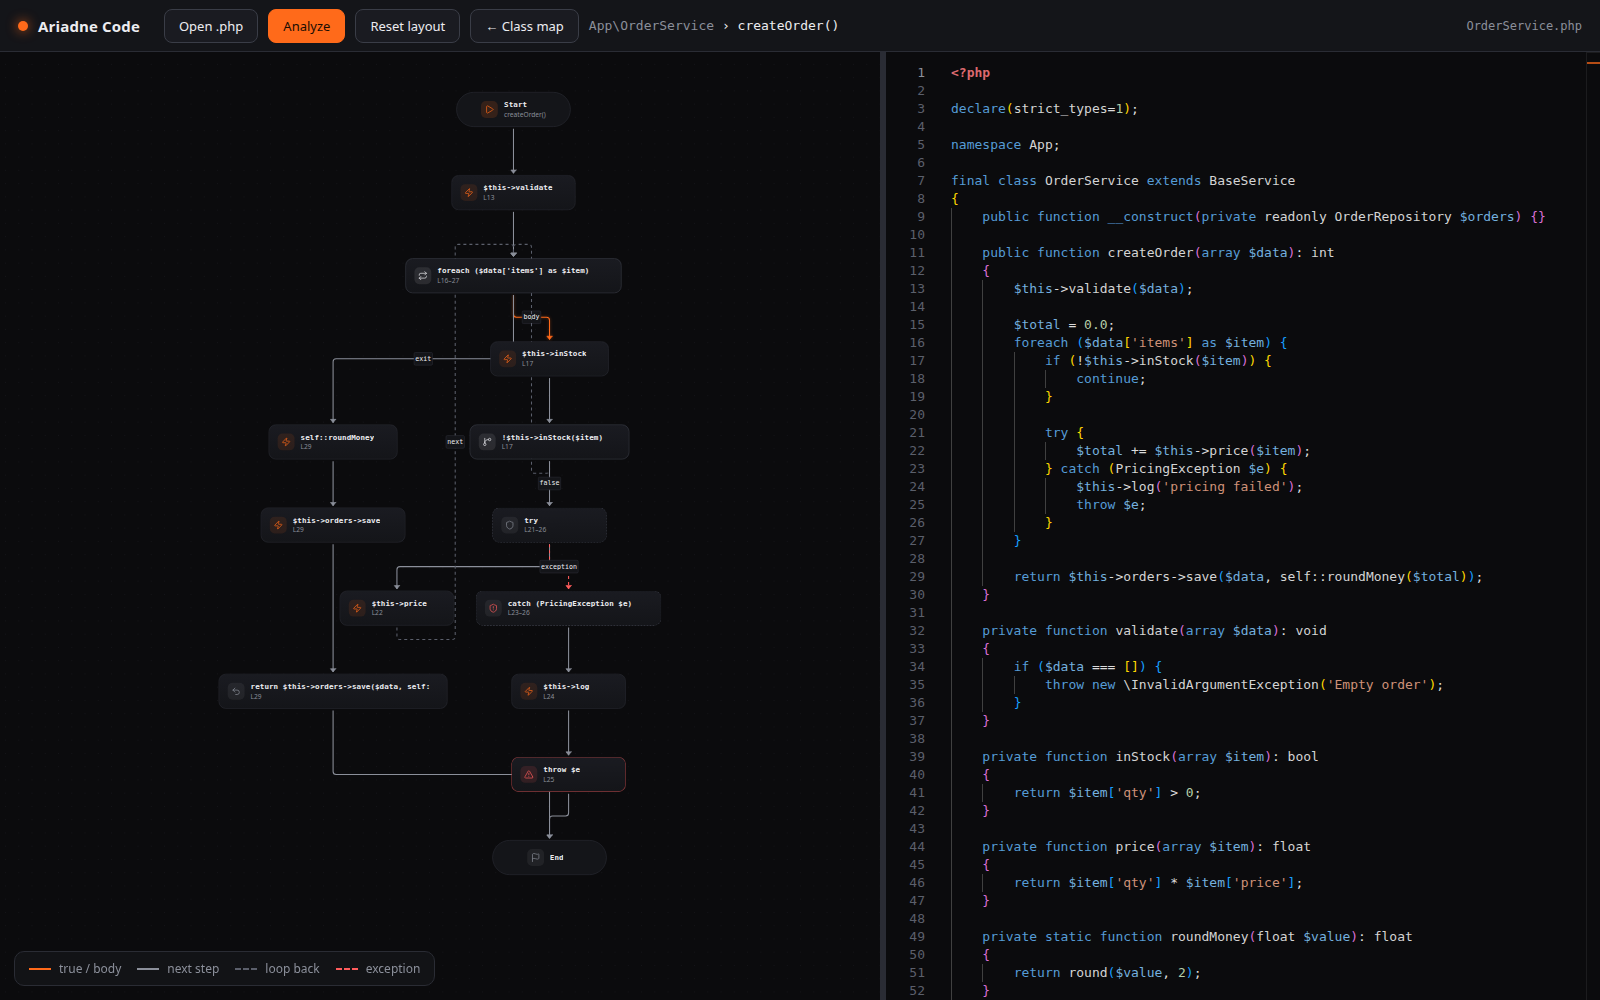
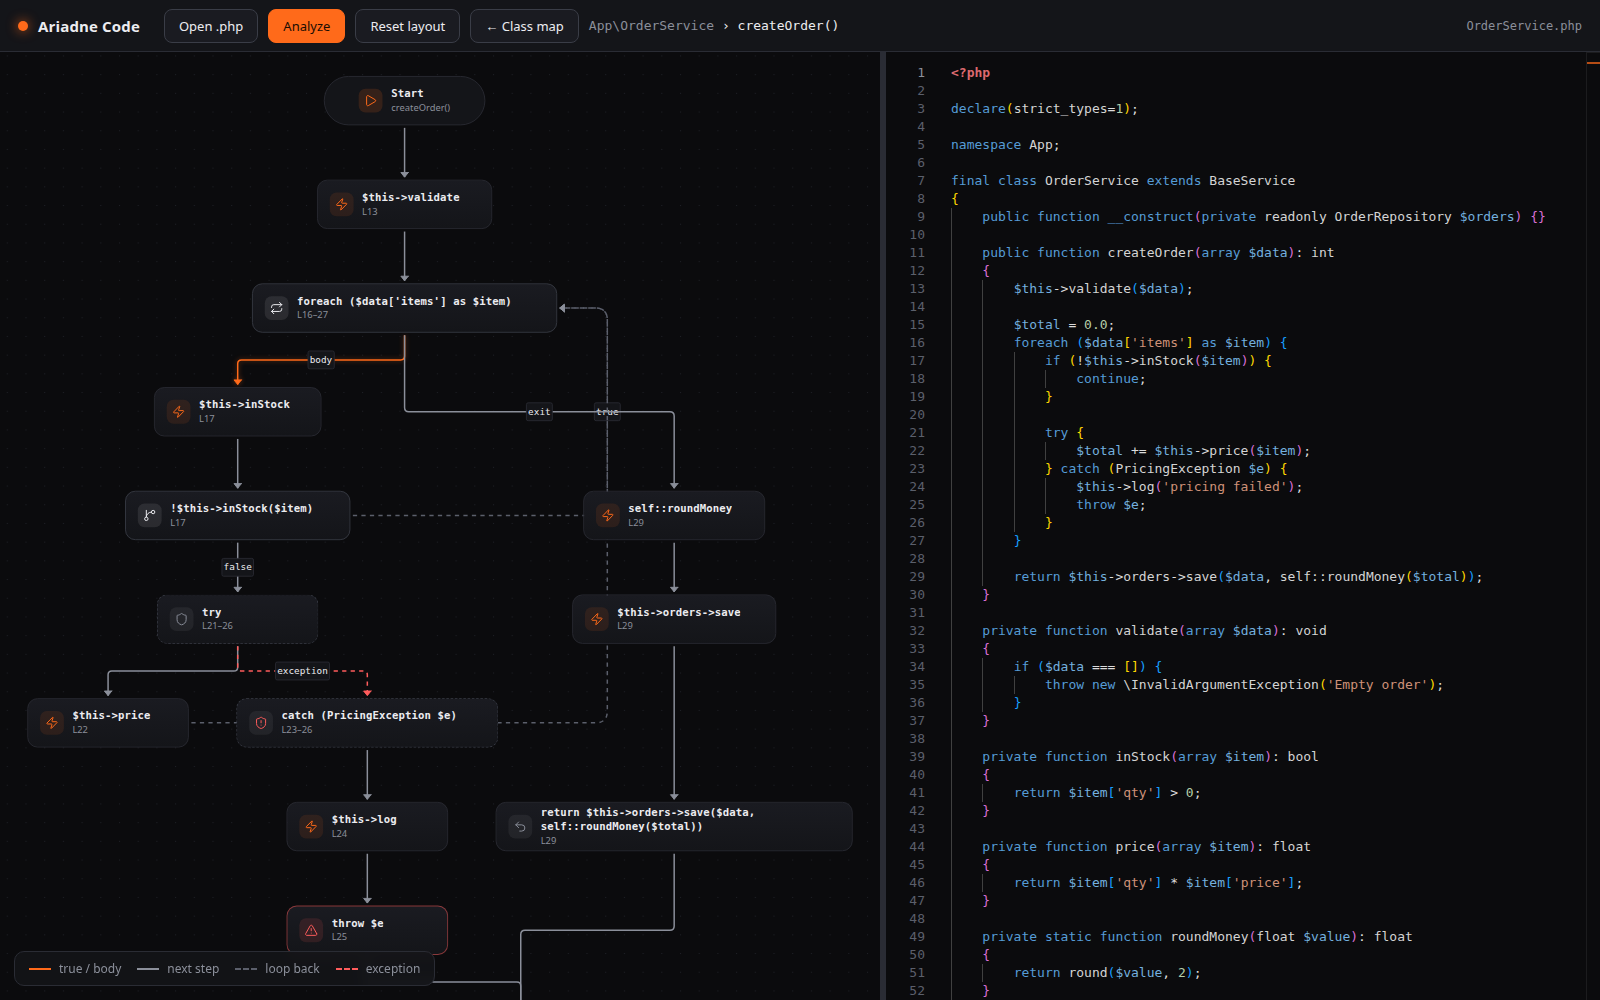
[update] open method flow at a readable zoom with ordered layout and wider spacing

diff --git a/web/src/components/GraphView.vue b/web/src/components/GraphView.vue
@@ -3,6 +3,7 @@ import { Background } from '@vue-flow/background'
 import { VueFlow, useVueFlow, type Edge, type Node } from '@vue-flow/core'
 import { shallowRef, watch } from 'vue'
 
+import { readableViewport } from '../graph/viewport'
 import { applyPositions, clearPositions, layoutKey, loadPositions, savePositions } from '../graph/positions'
 import { theme } from '../theme'
 import ClassGroup from './ClassGroup.vue'
@@ -22,7 +23,7 @@ const props = defineProps<{
 }>()
 const emit = defineEmits<{ select: [id: string]; open: [id: string] }>()
 
-const { fitView, getNodes, updateNode, onNodeClick, onNodeDoubleClick, onNodeDragStop, onNodesChange, onNodesInitialized } = useVueFlow()
+const { fitView, setViewport, dimensions, getNodes, updateNode, onNodeClick, onNodeDoubleClick, onNodeDragStop, onNodesChange, onNodesInitialized } = useVueFlow()
 
 // Vue Flow owns the node positions from here on. Props only deliver a freshly analyzed graph;
 // selection and dragging must never rebuild nodes from them, or dragged blocks jump back.
@@ -74,10 +75,34 @@ onNodesChange((changes) => {
   }
 })
 
+/** A method flow is read like text, so it opens at a readable size from the top. A class map is shown whole. */
+function fit(): void {
+  if (props.mode === 'map') {
+    void fitView({ padding: 0.1, maxZoom: 1.25 })
+
+    return
+  }
+
+  const nodes = getNodes.value
+
+  if (nodes.length === 0) {
+    return
+  }
+
+  const bounds = {
+    minX: Math.min(...nodes.map((node) => node.position.x)),
+    minY: Math.min(...nodes.map((node) => node.position.y)),
+    maxX: Math.max(...nodes.map((node) => node.position.x + node.dimensions.width)),
+    maxY: Math.max(...nodes.map((node) => node.position.y + node.dimensions.height)),
+  }
+
+  void setViewport(readableViewport(bounds, dimensions.value, { padding: 24, minZoom: 0.85, maxZoom: 1.25 }))
+}
+
 onNodesInitialized(() => {
   if (pendingFit) {
     pendingFit = false
-    void fitView({ padding: 0.1, maxZoom: 1.25 })
+    fit()
   }
 })
 

diff --git a/web/src/graph/viewport.test.ts b/web/src/graph/viewport.test.ts
@@ -1,0 +1,44 @@
+import { describe, expect, it } from 'vitest'
+import { readableViewport } from './viewport'
+
+const options = { padding: 20, minZoom: 0.8, maxZoom: 1.25 }
+const pane = { width: 800, height: 600 }
+
+describe('readableViewport', () => {
+  it('fits a small graph and centres it', () => {
+    const view = readableViewport({ minX: 0, minY: 0, maxX: 400, maxY: 200 }, pane, options)
+
+    expect(view.zoom).toBeCloseTo(1.25)
+    expect(view.x).toBeCloseTo((800 - 400 * 1.25) / 2)
+    expect(view.y).toBeCloseTo((600 - 200 * 1.25) / 2)
+  })
+
+  it('zooms out to fit a graph that is a little too big', () => {
+    // 760x560 is free after padding, so the 600px-high graph is limited by height: 560 / 600.
+    const view = readableViewport({ minX: 0, minY: 0, maxX: 700, maxY: 600 }, pane, options)
+
+    expect(view.zoom).toBeCloseTo(560 / 600, 5)
+  })
+
+  it('never zooms below the readable minimum and pins a tall graph to the top', () => {
+    const view = readableViewport({ minX: 0, minY: 0, maxX: 300, maxY: 2000 }, pane, options)
+
+    expect(view.zoom).toBe(0.8)
+    expect(view.y).toBe(20)
+    expect(view.x).toBeCloseTo((800 - 300 * 0.8) / 2)
+  })
+
+  it('accounts for a graph that does not start at the origin', () => {
+    const view = readableViewport({ minX: 100, minY: 50, maxX: 500, maxY: 250 }, pane, options)
+
+    // The graph's left edge lands where it would for a graph at the origin, shifted by its own offset.
+    expect(view.x + 100 * view.zoom).toBeCloseTo((800 - 400 * view.zoom) / 2)
+    expect(view.y + 50 * view.zoom).toBeCloseTo((600 - 200 * view.zoom) / 2)
+  })
+
+  it('survives a pane that has not been measured yet', () => {
+    const view = readableViewport({ minX: 0, minY: 0, maxX: 100, maxY: 100 }, { width: 0, height: 0 }, options)
+
+    expect(Number.isFinite(view.x) && Number.isFinite(view.y) && Number.isFinite(view.zoom)).toBe(true)
+  })
+})

diff --git a/web/src/graph/layout.ts b/web/src/graph/layout.ts
@@ -5,7 +5,7 @@ const elk = new ELK()
 
 const NODE_HEIGHT = 58
 const MIN_NODE_WIDTH = 190
-const MAX_NODE_WIDTH = 380
+const MAX_NODE_WIDTH = 420
 const CHAR_WIDTH = 8.5
 // Icon, gaps and padding around the title.
 const CHROME = 78
@@ -26,6 +26,23 @@ export type LayoutNode = Node & { data: { title: string; subtitle: string } }
 export interface LayoutOptions {
   /** Direction of the main flow. The class map reads left to right, a method flow top to bottom. */
   direction?: 'RIGHT' | 'DOWN'
+}
+
+/**
+ * Extra ELK options for a method flow, which is a story read from the top rather than a map.
+ * - Model order keeps the source order of statements and branches (`true` before `false`), so the main
+ *   path stays in one column instead of being shuffled to reduce crossings.
+ * - Wider gaps leave room for the branch labels that sit on the edges.
+ */
+const FLOW_OPTIONS: Record<string, string> = {
+  'elk.layered.considerModelOrder.strategy': 'NODES_AND_EDGES',
+  'elk.layered.crossingMinimization.forceNodeModelOrder': 'true',
+  'elk.layered.nodePlacement.bk.fixedAlignment': 'BALANCED',
+  'elk.spacing.nodeNode': '56',
+  'elk.layered.spacing.nodeNodeBetweenLayers': '64',
+  'elk.layered.spacing.edgeNodeBetweenLayers': '28',
+  'elk.spacing.edgeNode': '28',
+  'elk.spacing.edgeEdge': '18',
 }
 
 function widthOf(node: LayoutNode): number {
@@ -89,6 +106,7 @@ export async function layout<T extends LayoutNode>(nodes: T[], edges: Edge[], op
       'elk.spacing.nodeNode': '36',
       'elk.layered.spacing.nodeNodeBetweenLayers': '80',
       'elk.layered.spacing.edgeNodeBetweenLayers': '24',
+      ...(direction === 'DOWN' ? FLOW_OPTIONS : {}),
     },
     children: roots.map(toElk),
     edges: edges.map((edge) => ({ id: edge.id, sources: [edge.source], targets: [edge.target] })),

diff --git a/web/src/graph/viewport.ts b/web/src/graph/viewport.ts
@@ -1,0 +1,41 @@
+export interface Bounds {
+  minX: number
+  minY: number
+  maxX: number
+  maxY: number
+}
+
+export interface Viewport {
+  x: number
+  y: number
+  zoom: number
+}
+
+export interface FitOptions {
+  /** Space kept free around the graph, in screen pixels. */
+  padding: number
+  minZoom: number
+  maxZoom: number
+}
+
+/**
+ * The viewport that shows a graph at a readable size.
+ *
+ * It zooms to fit like `fitView`, but never below `minZoom`. A tall graph then no longer shrinks until its
+ * text is unreadable; it is anchored at the top instead, so the reader starts at the entry point and pans down.
+ */
+export function readableViewport(bounds: Bounds, pane: { width: number; height: number }, options: FitOptions): Viewport {
+  const width = Math.max(1, bounds.maxX - bounds.minX)
+  const height = Math.max(1, bounds.maxY - bounds.minY)
+  const available = { width: Math.max(1, pane.width - options.padding * 2), height: Math.max(1, pane.height - options.padding * 2) }
+
+  const fit = Math.min(available.width / width, available.height / height)
+  const zoom = Math.min(options.maxZoom, Math.max(options.minZoom, fit))
+
+  return {
+    zoom,
+    x: (pane.width - width * zoom) / 2 - bounds.minX * zoom,
+    // Centred when the graph fits, otherwise pinned to the top edge.
+    y: height * zoom <= available.height ? (pane.height - height * zoom) / 2 - bounds.minY * zoom : options.padding - bounds.minY * zoom,
+  }
+}

diff --git a/web/src/graph/toMethodFlow.ts b/web/src/graph/toMethodFlow.ts
@@ -28,6 +28,9 @@ const FLOW_KINDS: ReadonlySet<NodeType> = new Set<NodeType>([
   'throw',
 ])
 
+/** How far a loop-back swings out to the right of the nodes it passes. */
+const LOOP_OFFSET = 56
+
 /** Labels that mean "the exceptional path": drawn in the danger colour. */
 const EXCEPTIONAL = new Set(['exception', 'throw'])
 /** Labels that return to an earlier node: drawn dashed so loops read as loops. */
@@ -114,6 +117,7 @@ export function toMethodFlow(graph: Graph, methodId: string): { nodes: FlowNode[
         label: edge.label ?? undefined,
         class: backward ? 'flow-edge flow-edge-backward' : flowEdgeClass(edge.label),
         markerEnd: { type: 'arrowclosed' as MarkerType, color: backward ? theme.muted : edgeColor(edge.label) },
+        ...(backward ? { sourceHandle: 'loop-out', targetHandle: 'loop-in', pathOptions: { offset: LOOP_OFFSET, borderRadius: 14 } } : {}),
       }
     })
 

diff --git a/web/src/components/FlowNode.vue b/web/src/components/FlowNode.vue
@@ -32,6 +32,9 @@ const icon = computed(() => ICONS[props.data.kind])
       <span v-if="data.subtitle" class="subtitle">{{ data.subtitle }}</span>
     </span>
     <Handle type="source" :position="Position.Bottom" />
+    <!-- Loop-backs travel along the right edge instead of cutting through the nodes in between. -->
+    <Handle id="loop-out" type="source" :position="Position.Right" />
+    <Handle id="loop-in" type="target" :position="Position.Right" />
   </div>
 </template>
 
@@ -74,10 +77,12 @@ const icon = computed(() => ICONS[props.data.kind])
 }
 
 .flow-node .title {
+  display: -webkit-box;
   overflow: hidden;
   font: 600 12.5px/1.3 var(--font-code);
-  text-overflow: ellipsis;
-  white-space: nowrap;
+  overflow-wrap: anywhere;
+  -webkit-box-orient: vertical;
+  -webkit-line-clamp: 2;
 }
 
 .flow-node .subtitle {
